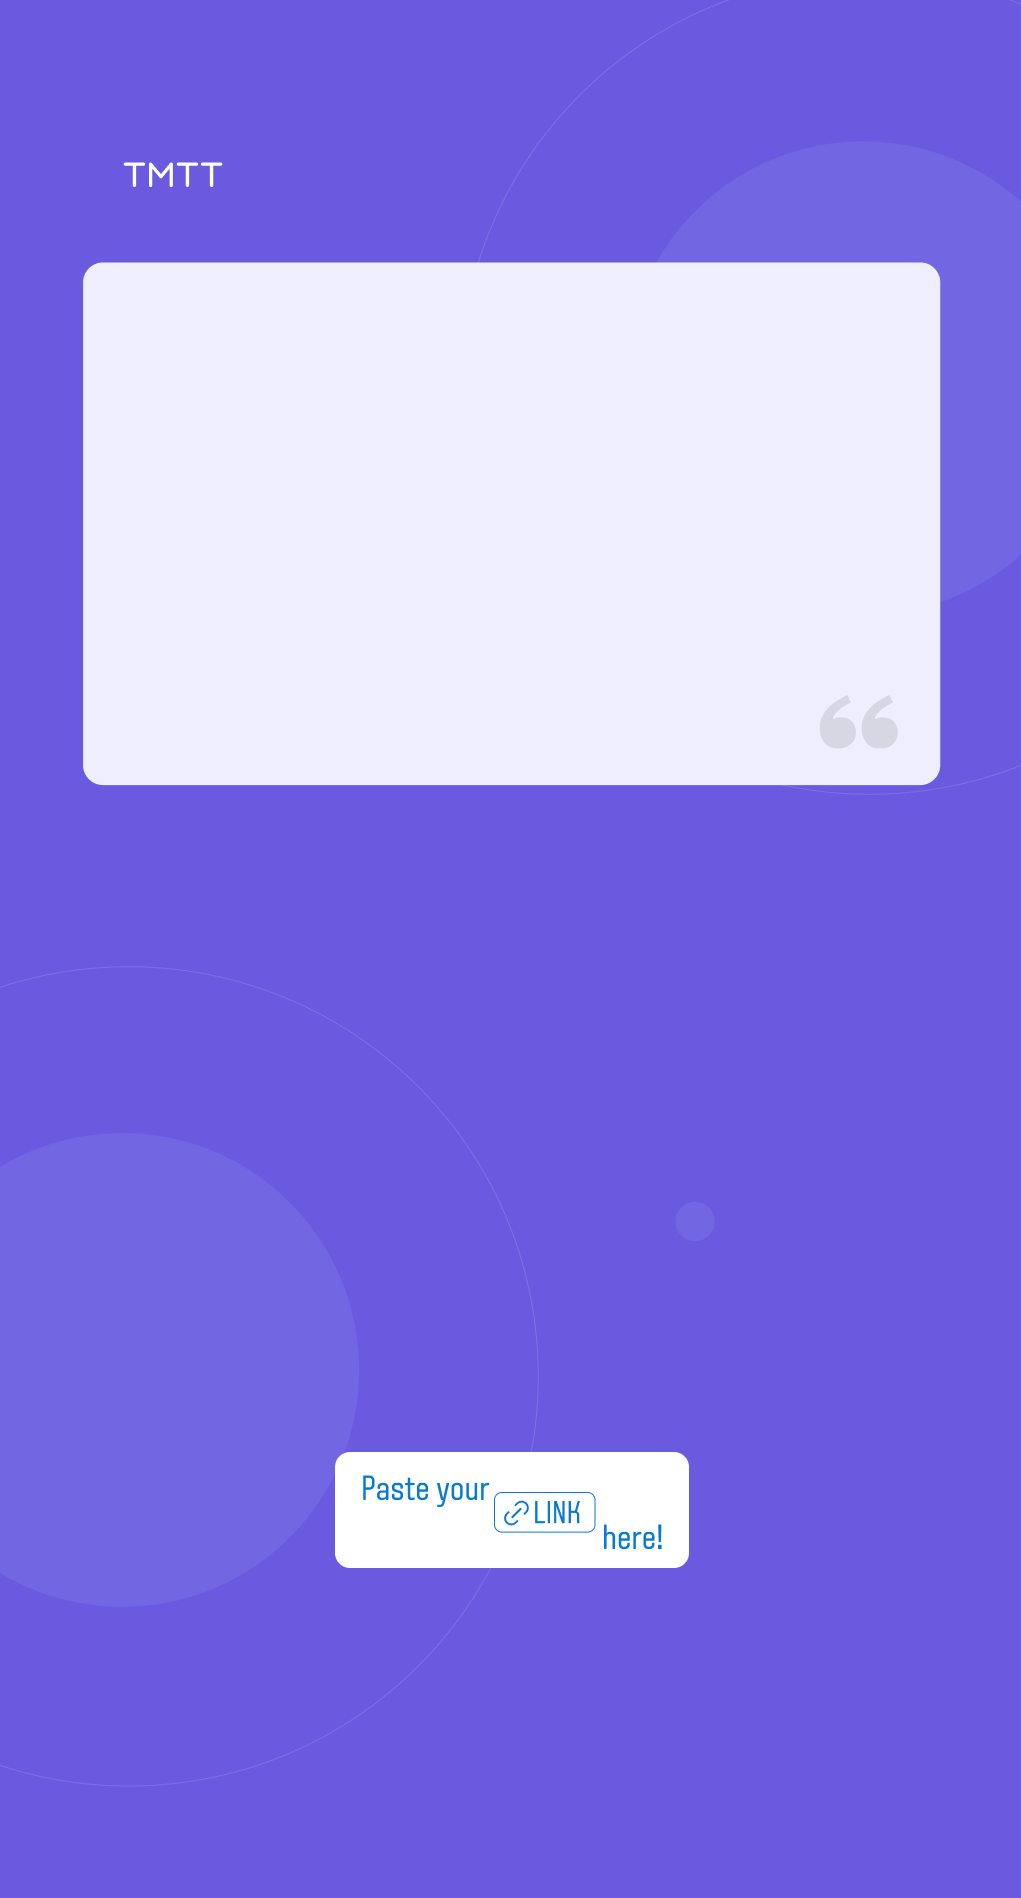
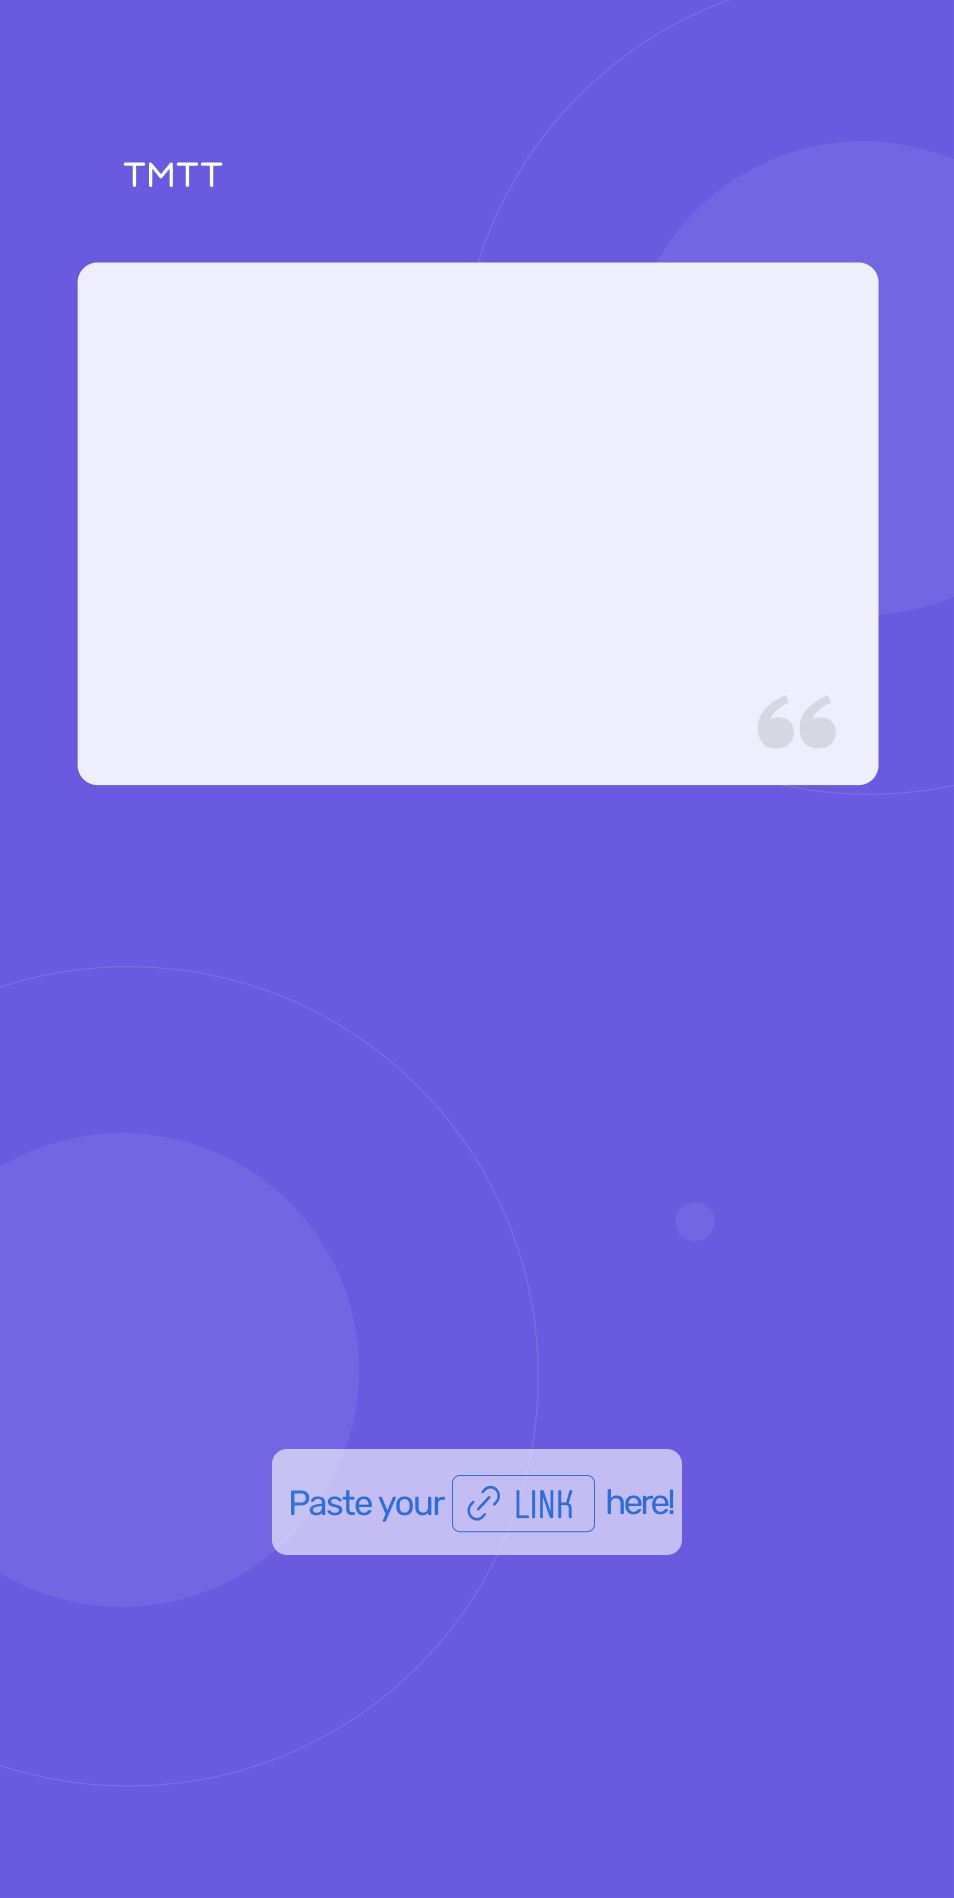
Home: change into ClipRRect all, add new background and croodinate calc. a few images.

Changed region(s): [[0.2736, 0.746, 0.7296, 0.8393], [0.7904, 0.373, 0.8512, 0.4041], [0.1216, 0.0622, 0.1824, 0.0933]]

diff --git a/lib/src/screens/home/home_fragment.dart b/lib/src/screens/home/home_fragment.dart
@@ -49,13 +49,6 @@ class HomeFragment extends GetView<HomeController> {
                         style: MyTextStyle.h5,
                       ),
 
-                      // PlainTextField(
-                      //   hintText: '[test]Your instagram ID here.',
-                      //   keyboardType: TextInputType.text,
-                      //   controller: controller.inputController,
-                      // ),
-                      //AppSpaces.verticalSpace20,
-
                       PlainText(
                           text: controller.instaBioObs.value
                       ),
@@ -74,7 +67,7 @@ class HomeFragment extends GetView<HomeController> {
                             onPressed: () => controller.editMyStateMessage(),
                             enabledObs: RxBool(true),
                           ),
-                          Spacer(),
+                          const Spacer(),
                           WhiteButton(
                             icon: SvgPicture.asset(Assets.imagesIcoArrowdown, color: MyColor.kPrimary),
                             text: 'Random',
@@ -91,57 +84,78 @@ class HomeFragment extends GetView<HomeController> {
                       ),
                       AppSpaces.verticalSpace10,
 
-
-
-                      Stack(children: [
-                        SvgPicture.asset(Assets.imagesInviteFriends),
-                        Column(
-                          mainAxisAlignment: MainAxisAlignment.center,
-                          crossAxisAlignment: CrossAxisAlignment.center,
+                      ClipRRect(
+                        borderRadius: BorderRadius.circular(30.0),
+                        child: Column(
                           children: [
-                          AppSpaces.verticalSpace100,
-                          AppSpaces.verticalSpace30,
-                          PlainText(
-                            text: 'Step1: Copy your link!',
-                            style: MyTextStyle.caption2Bold,
-                          ),
-
-                          AppSpaces.verticalSpace10,
-                          PlainText(
-                              text: 'https://tmtt.link/#/${controller.userNameObs.value}'
-                          ),
-                          Padding(
-                            padding: const EdgeInsets.fromLTRB(25, 0, 25, 10),
-                            child: BottomPlainButton(
-                              text: 'Copy link',
-                              icon: SvgPicture.asset(Assets.imagesIcoCopy),
-                              onPressed: () => controller.copyMyLink(),
-                              enabledObs: RxBool(true),
-                            ),
-                          ),
-
-                          AppSpaces.verticalSpace10,
-
-                          PlainText(
-                            marginLeft: 30,
-                            marginRight: 30,
-                            align: TextAlign.center,
-                            text: 'Step2: Share your link on your instagram Story.',
-                            style: MyTextStyle.caption2Bold,
-                          ),
-                          AppSpaces.verticalSpace10,
-                            Padding(
-                              padding: const EdgeInsets.fromLTRB(25, 0, 25, 10),
-                              child: BottomPlainButton(
-                                text: 'Share',
-                                icon: SvgPicture.asset(Assets.imagesIcoShare),
-                                onPressed: () => controller.shareOnInstagram(context),
-                                enabledObs: RxBool(true),
+                            Container(
+                              alignment: Alignment.center,
+                              constraints: const BoxConstraints(
+                                maxHeight: 100,
                               ),
+                              color: MyColor.kSecondary,
+                              child: Row(
+                                mainAxisAlignment: MainAxisAlignment.center,
+                                children: [
+                                SvgPicture.asset(Assets.imagesInviteYourprofile),
+                                SvgPicture.asset(Assets.imagesInviteArrows),
+                                SvgPicture.asset(Assets.imagesInvite3guys),
+                              ],),
                             ),
-                        ],)
-                      ],),
+                            Container(
+                              alignment: Alignment.center,
+                              constraints: const BoxConstraints(
+                                maxHeight: 340,
+                              ),
+                              color: MyColor.kLightBackground,
+                              child: Column(
+                                mainAxisAlignment: MainAxisAlignment.start,
+                                crossAxisAlignment: CrossAxisAlignment.center,
+                                children: [
+                                  AppSpaces.verticalSpace30,
+                                  PlainText(
+                                    text: 'Step1: Copy your link!',
+                                    style: MyTextStyle.caption2Bold,
+                                  ),
 
+                                  AppSpaces.verticalSpace10,
+                                  PlainText(
+                                      text: 'https://tmtt.link/#/${controller.userNameObs.value}'
+                                  ),
+                                  Padding(
+                                    padding: const EdgeInsets.fromLTRB(25, 0, 25, 10),
+                                    child: BottomPlainButton(
+                                      text: 'Copy link',
+                                      icon: SvgPicture.asset(Assets.imagesIcoCopy),
+                                      onPressed: () => controller.copyMyLink(),
+                                      enabledObs: RxBool(true),
+                                    ),
+                                  ),
+
+                                  AppSpaces.verticalSpace10,
+
+                                  PlainText(
+                                    marginLeft: 30,
+                                    marginRight: 30,
+                                    align: TextAlign.center,
+                                    text: 'Step2: Share your link on your instagram Story.',
+                                    style: MyTextStyle.caption2Bold,
+                                  ),
+                                  AppSpaces.verticalSpace10,
+                                  Padding(
+                                    padding: const EdgeInsets.fromLTRB(25, 0, 25, 10),
+                                    child: BottomPlainButton(
+                                      text: 'Share',
+                                      icon: SvgPicture.asset(Assets.imagesIcoShare),
+                                      onPressed: () => controller.shareOnInstagram(context),
+                                      enabledObs: RxBool(true),
+                                    ),
+                                  ),
+                                ],)
+                            ),
+                          ],
+                        ),
+                      ),
 
                       // PlainText(
                       //     text: 'my link: ${controller.myLinkObs.value}'

diff --git a/lib/src/util/posting_helper.dart b/lib/src/util/posting_helper.dart
@@ -1,6 +1,7 @@
 
 import 'dart:io';
 
+import 'package:flutter/material.dart';
 import 'package:flutter/services.dart';
 import 'package:image/image.dart';
 import 'package:image_picker/image_picker.dart';
@@ -27,23 +28,35 @@ class PostingHelper {
     // get path to save image.
     String dirToSave= await _localPath;
 
-    var backgroundImage= await ImageUtils.imageToFile(imageName: 'background3.png');
+    var backgroundImage= await ImageUtils.imageToFile(imageName: 'background5.png');
 
     final image = decodeImage(File(backgroundImage.path).readAsBytesSync())!;
 
     // Text를 이미지로 전환한다.
-    final painterDesc = CustomTextPainter(message, 60.0, color: 0xFF000000);
+    final painterDesc = CustomTextPainter(message, 48.0, color: Colors.black54);
     final imageDesc = await painterDesc.toImageData();
     //final imageOfFont= await painterDesc.toImage();
 
     List<int>? listFont= imageDesc?.buffer.asUint8List().toList(growable: false);
 
-    // 원본 이미지에 텍스트를 canvas로 그려서 입힌다. (가운데 좌표)
-    drawImage(image, decodePng(listFont!)!,
-        dstX: image.width~/2 - painterDesc.pictureW~/2 + 30,
-        dstY: image.height~/2 - painterDesc.pictureH~/2 - 125,
-        dstW: painterDesc.pictureW.toInt(),
-        dstH: painterDesc.pictureH.toInt());
+    const onCenter= false;
+    if(onCenter) {
+      // 원본 이미지에 텍스트를 canvas로 그려서 입힌다. (가운데 좌표)
+      drawImage(image, decodePng(listFont!)!,
+          dstX: image.width~/2 - painterDesc.pictureW~/2 + 30,
+          dstY: image.height~/2 - painterDesc.pictureH~/2 - 325,
+          dstW: painterDesc.pictureW.toInt(),
+          dstH: painterDesc.pictureH.toInt());
+    }else{
+      // 원본 이미지에 텍스트를 canvas로 그려서 입힌다. (가운데 좌표)
+      drawImage(image, decodePng(listFont!)!,
+          dstX: 150,
+          dstY: 350,
+          dstW: painterDesc.pictureW.toInt(),
+          dstH: painterDesc.pictureH.toInt());
+    }
+
+
 
     // var newFile= await ImageUtils.imageToFile(imageName: 'mytest.png');
     // var newImage = decodePng(newFile.readAsBytesSync());

diff --git a/lib/src/util/textpainter.dart b/lib/src/util/textpainter.dart
@@ -2,24 +2,26 @@
 import 'dart:typed_data';
 import 'dart:ui' as ui;
 
+import 'package:flutter/material.dart';
 import 'package:flutter/rendering.dart';
 
 class CustomTextPainter extends CustomPainter {
   final String _text;
   final double _size; //this is pixel unit.
-  final int color;
+  final Color? color;
 
   double get pictureW => _size * (_text.length);
 
   //this value can smaller.
   double get pictureH => _size * 2; //there is 2 times _size due to text will around word-spacing.
 
-  CustomTextPainter(this._text, this._size, {this.color = 0xff000000});
+  CustomTextPainter(this._text, this._size, {this.color});
 
   @override
   void paint(ui.Canvas canvas, ui.Size size) {
     final textStyle = ui.TextStyle(
-      color: Color(color),
+      color: color ?? Colors.black,
+      fontFamily: "NanumSquareRound",
       fontSize: _size,
     );
     final paragraphStyle = ui.ParagraphStyle(

diff --git a/lib/src/widgets/button_white.dart b/lib/src/widgets/button_white.dart
@@ -26,7 +26,6 @@ class WhiteButton extends StatelessWidget {
   @override
   Widget build(BuildContext context) {
     return Container(
-      margin: const EdgeInsets.only(top: 12),
       child: Row(
         children: [
           Obx(() => setButtonState(enabledObs.value)),
@@ -52,12 +51,12 @@ class WhiteButton extends StatelessWidget {
           onPressed?.call();
         },
       ) : OutlinedButton.icon(
-        icon: icon!,
+        icon: icon!.marginOnly(left: 12),
         style: isEnable ? normalButtonStyle : disabledButtonStyle,
         label: PlainText(
           text: text,
           style: TextStyle(
-            fontSize: fontSize ?? 12,
+            fontSize: fontSize ?? 13,
             color: MyColor.black,
           ),
         ),

diff --git a/lib/src/resources/styles/btn_style.dart b/lib/src/resources/styles/btn_style.dart
@@ -79,6 +79,7 @@ class BtnStyle {
   );
 
   static ButtonStyle whiteOutlineRadius = OutlinedButton.styleFrom(
+    padding: const EdgeInsets.fromLTRB(0, 0, 10, 0),
     shape: RoundedRectangleBorder(
       borderRadius: BorderRadius.circular(12), // <-- Radius
     ),
